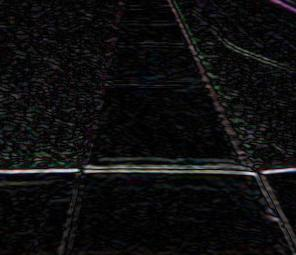
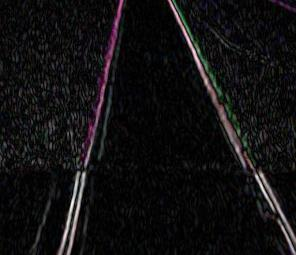
Updated conv functions.

diff --git a/numpyConv.py b/numpyConv.py
@@ -1,108 +1,54 @@
 import numpy as np
 
 class NumpyConv:
-    X=0;
-    def __init__(self):
-        print("A new CNN class was created!")
-
     @classmethod
-    def conv(cls, h, y, pad=None, padVal=0):
+    def conv(cls, h, y, pad=None, padVal=0, nDim=None):
         #N-Dimensional convolution
         #Pad is a padding to apply to either side of the signal of value padVal
         #Note that when an argument is passed in for pad, a "truncated" convolution will occur in which only fully overlapped regions are convolved. This feature is more usefull in the convolution of higher dimensions
 
-        #Call Appriopriate function
+        #Ensure smaller array is h, usually the kernal/filter
         if h.shape[-1]>y.shape[-1]: temp=h; h=y; y=temp
-        if h.ndim>=y.ndim:
-            return cls.convManyH(h,y,pad,padVal)
-        elif y.ndim>h.ndim:
-            return cls.convManyY(h,y,pad,padVal)
 
-    @classmethod
-    def convManyY(cls, h, y, pad=None, padVal=0):
-        #N-Dimensional convolution
-        #Pad is a padding to apply to either side of the signal of value padVal
-        #Note that when an argument is passed in for pad, a "truncated" convolution will occur in which only fully overlapped regions are convolved. This feature is more usefull in the convolution of higher dimensions
+        #nDim is calculated if its not passed in.
+        if nDim is None:
+            nDim=min(y.ndim,h.ndim)
 
-        #Ensure y is h.ndim+1 dimension
-        if h.ndim>y.ndim: temp=h; h=y; y=temp
-        if h.ndim==y.ndim:
-            y=np.reshape(np.ravel(y),(np.append(1,y.shape)))
-            yshap = (1)
-        elif y.ndim>h.ndim:
-            y=np.reshape(np.ravel(y), np.append(np.prod(y.shape[:-h.ndim]),y.shape[-h.ndim:]))
-            yshap = y.shape[:-h.ndim]
-
-        #Commented out because y cannot be switched after adding/reshaping the
-            #Ensure h is the smaller dimensional array
-            # if h.shape[0]>y.shape[1]: temp = h; h=y; y=temp;
-            # print(h.shape, y.shape)
-            # for i in range(h.ndim):
-            #     if h.shape[i]>y.shape[i+1]:
-            #         raise Warning("If one array is not larger than the other in ALL dimensions, program may need to generate extra paddings and slow things down. It's suggested to use a filter that is smaller in all dimensions")
-
-        ##Apply specified padding, or add default padding of h.shape-1
+        #Generate and apply default padding of h.shape-1 if a pad variable is not passed in
         if pad is None:
-            pad = np.subtract(h.shape,1)
+            pad = np.subtract(h.shape[-nDim:],1)
         elif np.isscalar(pad):
-            pad = pad*np.ones(h.ndim, np.int)
+            pad = pad*np.ones(nDim, np.int)
+        y=np.pad(y,np.append(np.zeros((y.ndim-nDim,2),np.int),(np.ones((2,pad.size),np.int)*pad).T,axis=0),'constant', constant_values=padVal)
 
-        #Flip filter (h) and pad y with specified padding settings
-        h=np.flip(h)
-        y=np.pad(y,np.append([[0,0]],(np.ones((2,pad.size),np.int)*pad).T,axis=0),'constant', constant_values=padVal)
+        #Flip filter (h)
+        h=np.flip(h,tuple(range(h.ndim-nDim,h.ndim)))
 
         #Generate a window view of y that involves each voxel for convolution
-        a=np.lib.stride_tricks.as_strided(y, shape=(np.append(np.append(y.shape[0],np.subtract(y[0,...].shape, h.shape)+1), h.shape)),strides=(np.append(y.strides[0],y[0,...].strides*2)))
+        a=np.lib.stride_tricks.as_strided(y, shape=(np.append(np.append(y.shape[0:-nDim],np.subtract(y.shape[-nDim:], h.shape[-nDim:])+1), h.shape[-nDim:])).astype(np.int),strides=(np.append(y.strides[:-nDim],y.strides[-nDim:]*2)).astype(np.int))
 
-        #Flatten array y along each voxel regardless of dimension so a dot product with a flattened filter results in the summed elementwise multiplication
-        a=np.reshape(np.ravel(a), (a.shape[0]*np.prod(np.subtract(y[0,...].shape, h.shape)+1),np.prod(h.shape)))
-        a=np.tensordot(a,np.ravel(h),([1],[0]))
+        #generate einsum notation for matrix mult of nDim dimensions
+        str1=str2=''
+        str3='->'
+        o=0
+        for i in range(h.ndim-nDim):
+            str2+=chr(97+o)
+            str3+=chr(97+o)
+            o+=1
+        for i in range(a.ndim-nDim):
+            str1+=chr(97+o)
+            str3+=chr(97+o)
+            o+=1
+        for i in range(nDim):
+            str1+=chr(97+i+o)
+            str2+=chr(97+i+o)
+        str=str1+','+str2+str3
 
-        #Reshape the answer and return the value; if yshap is one, remove the outter shell added for the algorithm generalizability
-        if yshap==1:
-            return np.reshape(np.ravel(a),np.append(yshap,np.subtract(y.shape[1:], h.shape)+1))[0,...]
-        else:
-            return np.reshape(np.ravel(a),np.append(yshap,np.subtract(y.shape[1:], h.shape)+1))
-
-    @classmethod
-    def convManyH(cls, h, y, pad=None, padVal=0):
-        #N-Dimensional convolution
-        #Pad is a padding to apply to either side of the signal of value padVal
-        #Note that when an argument is passed in for pad, a "truncated" convolution will occur in which only fully overlapped regions are convolved. This feature is more usefull in the convolution of higher dimensions
-
-        #Ensure h is y.ndim+1 dimension
-        if y.ndim>h.ndim: temp=h; h=y; y=temp
-        if h.ndim==y.ndim:
-            h=np.reshape(np.ravel(h),(np.append(1,h.shape)))
-            hshap = (1)
-        elif h.ndim>y.ndim:
-            h=np.reshape(np.ravel(h), np.append(np.prod(h.shape[:-y.ndim]),h.shape[-y.ndim:]))
-            hshap = h.shape[:-y.ndim]
-
-        ##Apply specified padding, or add default padding of h.shape-1
-        if pad is None:
-            pad = np.subtract(h[0,...].shape,1)
-        elif np.isscalar(pad):
-            pad = pad*np.ones(y.ndim, np.int)
-
-        #Flip filter (h) and pad y with specified padding settings
-        h=np.flip(np.flip(h),0)
-        y=np.pad(y,(np.ones((2,pad.size),np.int)*pad).T,'constant', constant_values=padVal)
-
-        #Generate a window view of y that involves each voxel for convolution
-        a=np.lib.stride_tricks.as_strided(y, shape=(np.append(np.subtract(y.shape, h[0,...].shape)+1, h[0,...].shape)),strides=(y.strides*2))
-
-        #Flatten array y along each voxel regardless of dimension so a dot product with a flattened filter results in the summed elementwise multiplication
-        a=np.reshape(np.ravel(a), (np.prod(np.subtract(y.shape, h[0,...].shape)+1),np.prod(h[0,...].shape)))
-        a=np.tensordot(a,np.reshape(np.ravel(h),(h.shape[0],np.prod(h[0,...].shape))),([1],[1])).T
-        #Reshape the answer and return the value; if yshap is one, remove the outter shell added for the algorithm generalizability
-        if hshap==1:
-            return np.reshape(np.ravel(a),np.append(hshap,np.subtract(y.shape, h.shape[1:])+1))[0,...]
-        else:
-            return np.reshape(np.ravel(a),np.append(hshap,np.subtract(y.shape, h.shape[1:])+1))
+        #Calculate and return convolution
+        return np.einsum(str,a,h)
 
     @classmethod
-    def normConv(cls, h, y, pad=None, pady=None, padVal=0):
+    def normConv(cls, h, y, pad=None, padVal=0, nDim=None):
             #Normallize the kernal to 0-1 range and call ConvTrunc method
         h=h.astype(np.double)
         if h.min()>=0:
@@ -115,7 +61,7 @@ class NumpyConv:
             p = p==False
             h[p] = np.interp(h[p], (h[p].min(), h[p].max()), (-1, 0))
             h[p] = h[p]/np.abs(h[p].sum())
-        return cls.conv(h, y, pad, pady, padVal)
+        return cls.conv(h, y, pad, padVal, nDim)
 
     @classmethod
     def toInt(cls, a, type):

diff --git a/testFile.py b/testFile.py
@@ -18,29 +18,33 @@ import time
 # f=cnv.conv(a,b,2,1)
 # print(d,e,f)
 
-# z=np.array([[[ 1.0, 2.0, 3.0],
-#             [ 0.0, 0.0, 0.0],
-#             [-1.0,-2.0,-3.0]],[[ 1.0, 0.0,-1.0],
-#                         [ 2.0, 0.0,-2.0],
-#                         [ 3.0, 0.0,-3.0]]])
-# y=np.array([[1,2,3,4,5],
+# z=np.array([[[ 1, 2, 3],
+#             [ 4, 3, 4],
+#             [-1,-2,-3]],[[ 1, 0,-1],
+#                         [ 2, 0,-2],
+#                         [ 3, 0,-3]]])
+# y=np.array([[[1,2,3,4,5],
 #             [5,4,3,2,1],
 #             [1,5,2,4,3],
 #             [3,2,4,1,5],
-#             [1,1,1,1,1]])
+#             [1,1,1,1,1]],[[1,2,3,4,5],
+#                         [5,4,3,2,1],
+#                         [1,5,2,4,3],
+#                         [3,2,4,1,5],
+#                         [0,0,1,0,0]]])
 #
-# x=cnv.convManyH(z,y)
+# x=cnv.conv(z,y,nDim=2)
 # print(z)
 # print(y)
 # print(x)
-# w=cnv.conv(z,y,0)
-# v=cnv.conv(z,y,1)
-# u=cnv.conv(z,y,np.array([1,2]),0)
-# print(w)
-# print(v)
-# print(u)
-# t=cnv.conv(z,y,np.array([1,2]),1)
-# print(t)
+# # w=cnv.conv(z,y,0)
+# # v=cnv.conv(z,y,1)
+# # u=cnv.conv(z,y,np.array([1,2]),0)
+# # print(w)
+# # print(v)
+# # print(u)
+# # t=cnv.conv(z,y,np.array([1,2]),1)
+# # print(t)
 
 # z=np.array([[[ 1, 1, 1],
 #             [ 0, 0, 0],
@@ -75,59 +79,56 @@ import time
 #                                                             [5,4,3,2,1],
 #                                                             [1,5,2,4,3]]])
 #
-# x=cnv.convManyH(z,y)
+# x=cnv.conv(z,y)
 # print(z)
 # print(y)
 # print(x)
-# w=cnv.convManyH(z,y,0)
-# v=cnv.convManyH(z,y,1)
-# u=cnv.convManyH(z,y,np.array([1,2,2]),0)
+# w=cnv.conv(z,y,0)
+# v=cnv.conv(z,y,1)
+# u=cnv.conv(z,y,np.array([1,2,2]),0)
 # print(w)
 # print(v)
 # print(u)
-# t=cnv.convManyH(z,y,np.array([1,2,2]),1)
+# t=cnv.conv(z,y,np.array([1,2,2]),1)
 # print(t)
 
 im = Image.open("TestImages/TI_0001.jpg")
 print(im.format, im.size, im.mode)
-im.show()
+# im.show()
 
 imArr = np.moveaxis(np.array(im),2,0)
 print(imArr.shape)
 
-kernal = np.array([ [ 2, 2, 2, 2, 2],
+kernals=np.array([[ [ 2, 2, 2, 2, 2],
                     [ 1, 1, 1, 1, 1],
                     [ 0, 0, 0, 0, 0],
                     [-1,-1,-1,-1,-1],
-                    [-2,-2,-2,-2,-2]])
-tic = time.perf_counter()
-imArrFil = cnv.conv(kernal,imArr, 0)
-toc = time.perf_counter()
-print(f"Computed 3 channel image convolution in {toc - tic:0.4f} seconds")
+                    [-2,-2,-2,-2,-2]],[ [ 2, 1, 0,-1,-2],
+                                        [ 2, 1, 0,-1,-2],
+                                        [ 2, 1, 0,-1,-2],
+                                        [ 2, 1, 0,-1,-2],
+                                        [ 2, 1, 0,-1,-2]]])
 
-imFil = Image.fromarray(np.moveaxis(cnv.toInt(np.abs(imArrFil),imArr.dtype),0,2))
+
+# numR = 50
+# imArrFil = cnv.conv(kernals,imArr, 0)
+# tic = time.perf_counter()
+# for i in range(numR):
+#     imArrFil = cnv.conv(kernals,imArr, 0, nDim=2)
+# toc = time.perf_counter()
+# print(f"Conv: {(toc - tic)/(numR*2):0.4f} seconds")
+
+imArrFil = cnv.conv(kernals,imArr, 0, nDim=2)
+imFil = Image.fromarray(np.moveaxis(cnv.toInt(np.abs(imArrFil[0,...]),imArr.dtype),0,2))
+imFil.show()
+imFil.save("TestImages/HImage.jpg")
+imFil = Image.fromarray(np.moveaxis(cnv.toInt(np.abs(imArrFil[1,...]),imArr.dtype),0,2))
 imFil.show()
 imFil.save("TestImages/VImage.jpg")
 
-
-kernal = kernal.T
-tic = time.perf_counter()
-imArrFil = cnv.conv(kernal,imArr, 0)
-toc = time.perf_counter()
-print(f"Computed 3 channel image convolution in {toc - tic:0.4f} seconds")
-
-imFil = Image.fromarray(np.moveaxis(cnv.toInt(np.abs(imArrFil),imArr.dtype),0,2))
-imFil.show()
-imFil.save("TestImages/HImage.jpg")
-
 greyImArr =np.array(im.convert('L'))
-tic = time.perf_counter()
-greyImArrFil = cnv.conv(np.array([kernal,kernal.T]),greyImArr, 0)
-toc = time.perf_counter()
-print(f"Computed 2 filter image convolution in {toc - tic:0.4f} seconds")
-
+greyImArrFil = cnv.conv(kernals,greyImArr, 0)
 GIA=np.mean(greyImArrFil,0)
-
 imFil = Image.fromarray(cnv.toInt(np.abs(GIA),imArr.dtype),'L')
 imFil.show()
 imFil.save("TestImages/VHImage.jpg")
